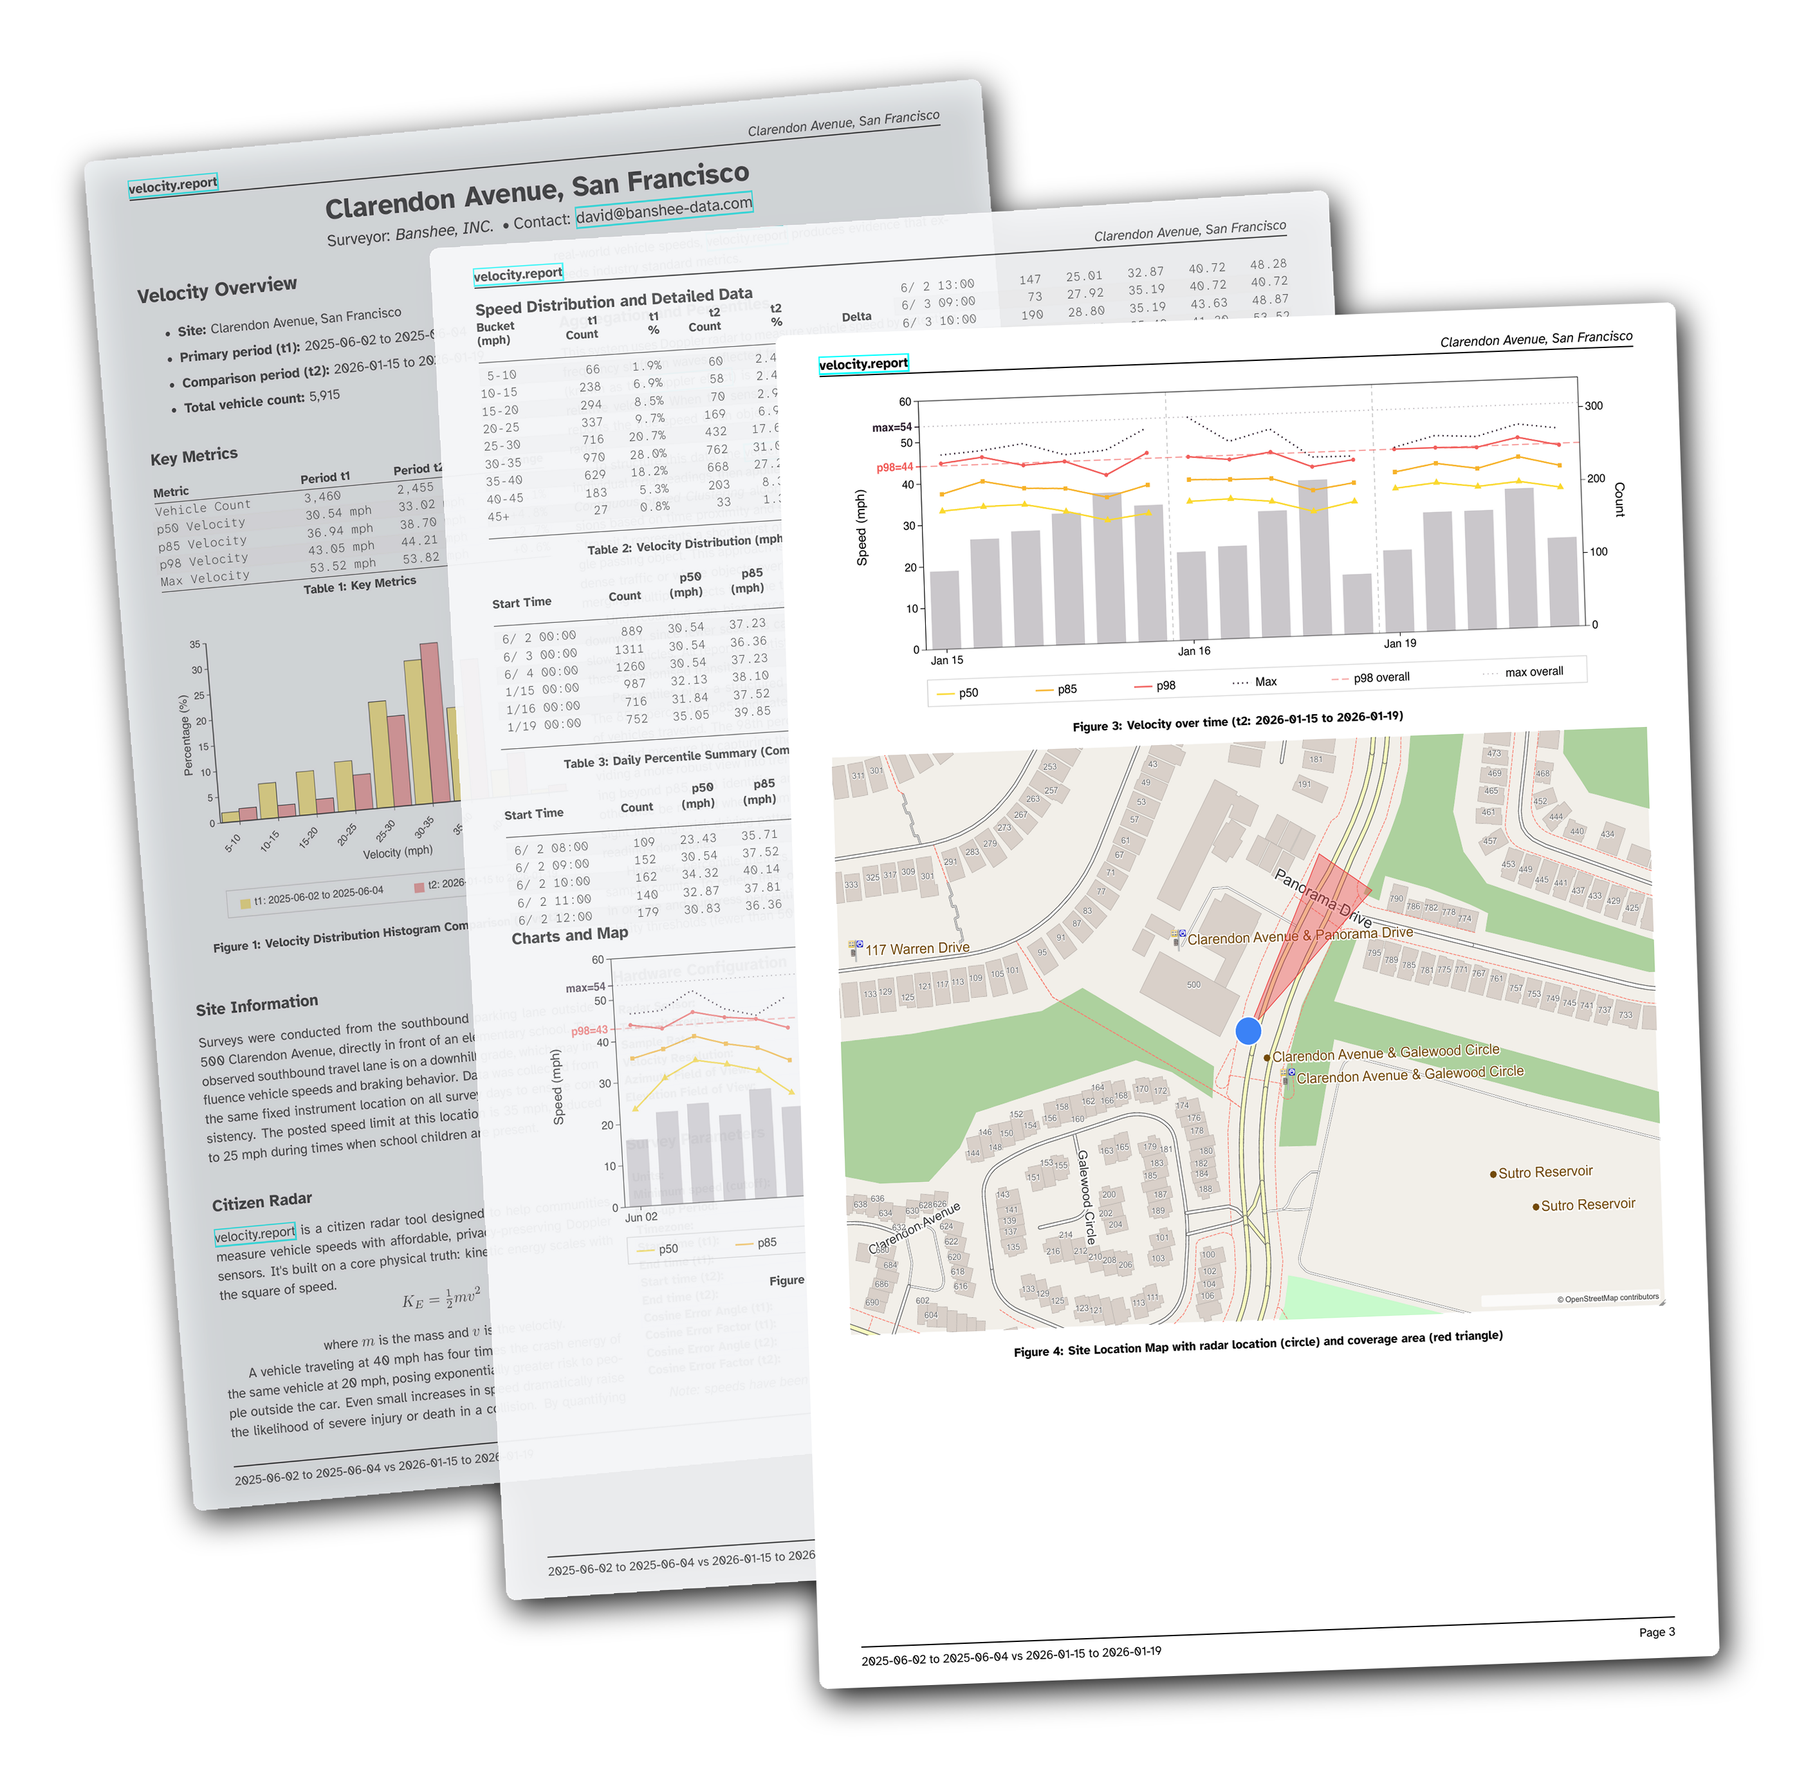
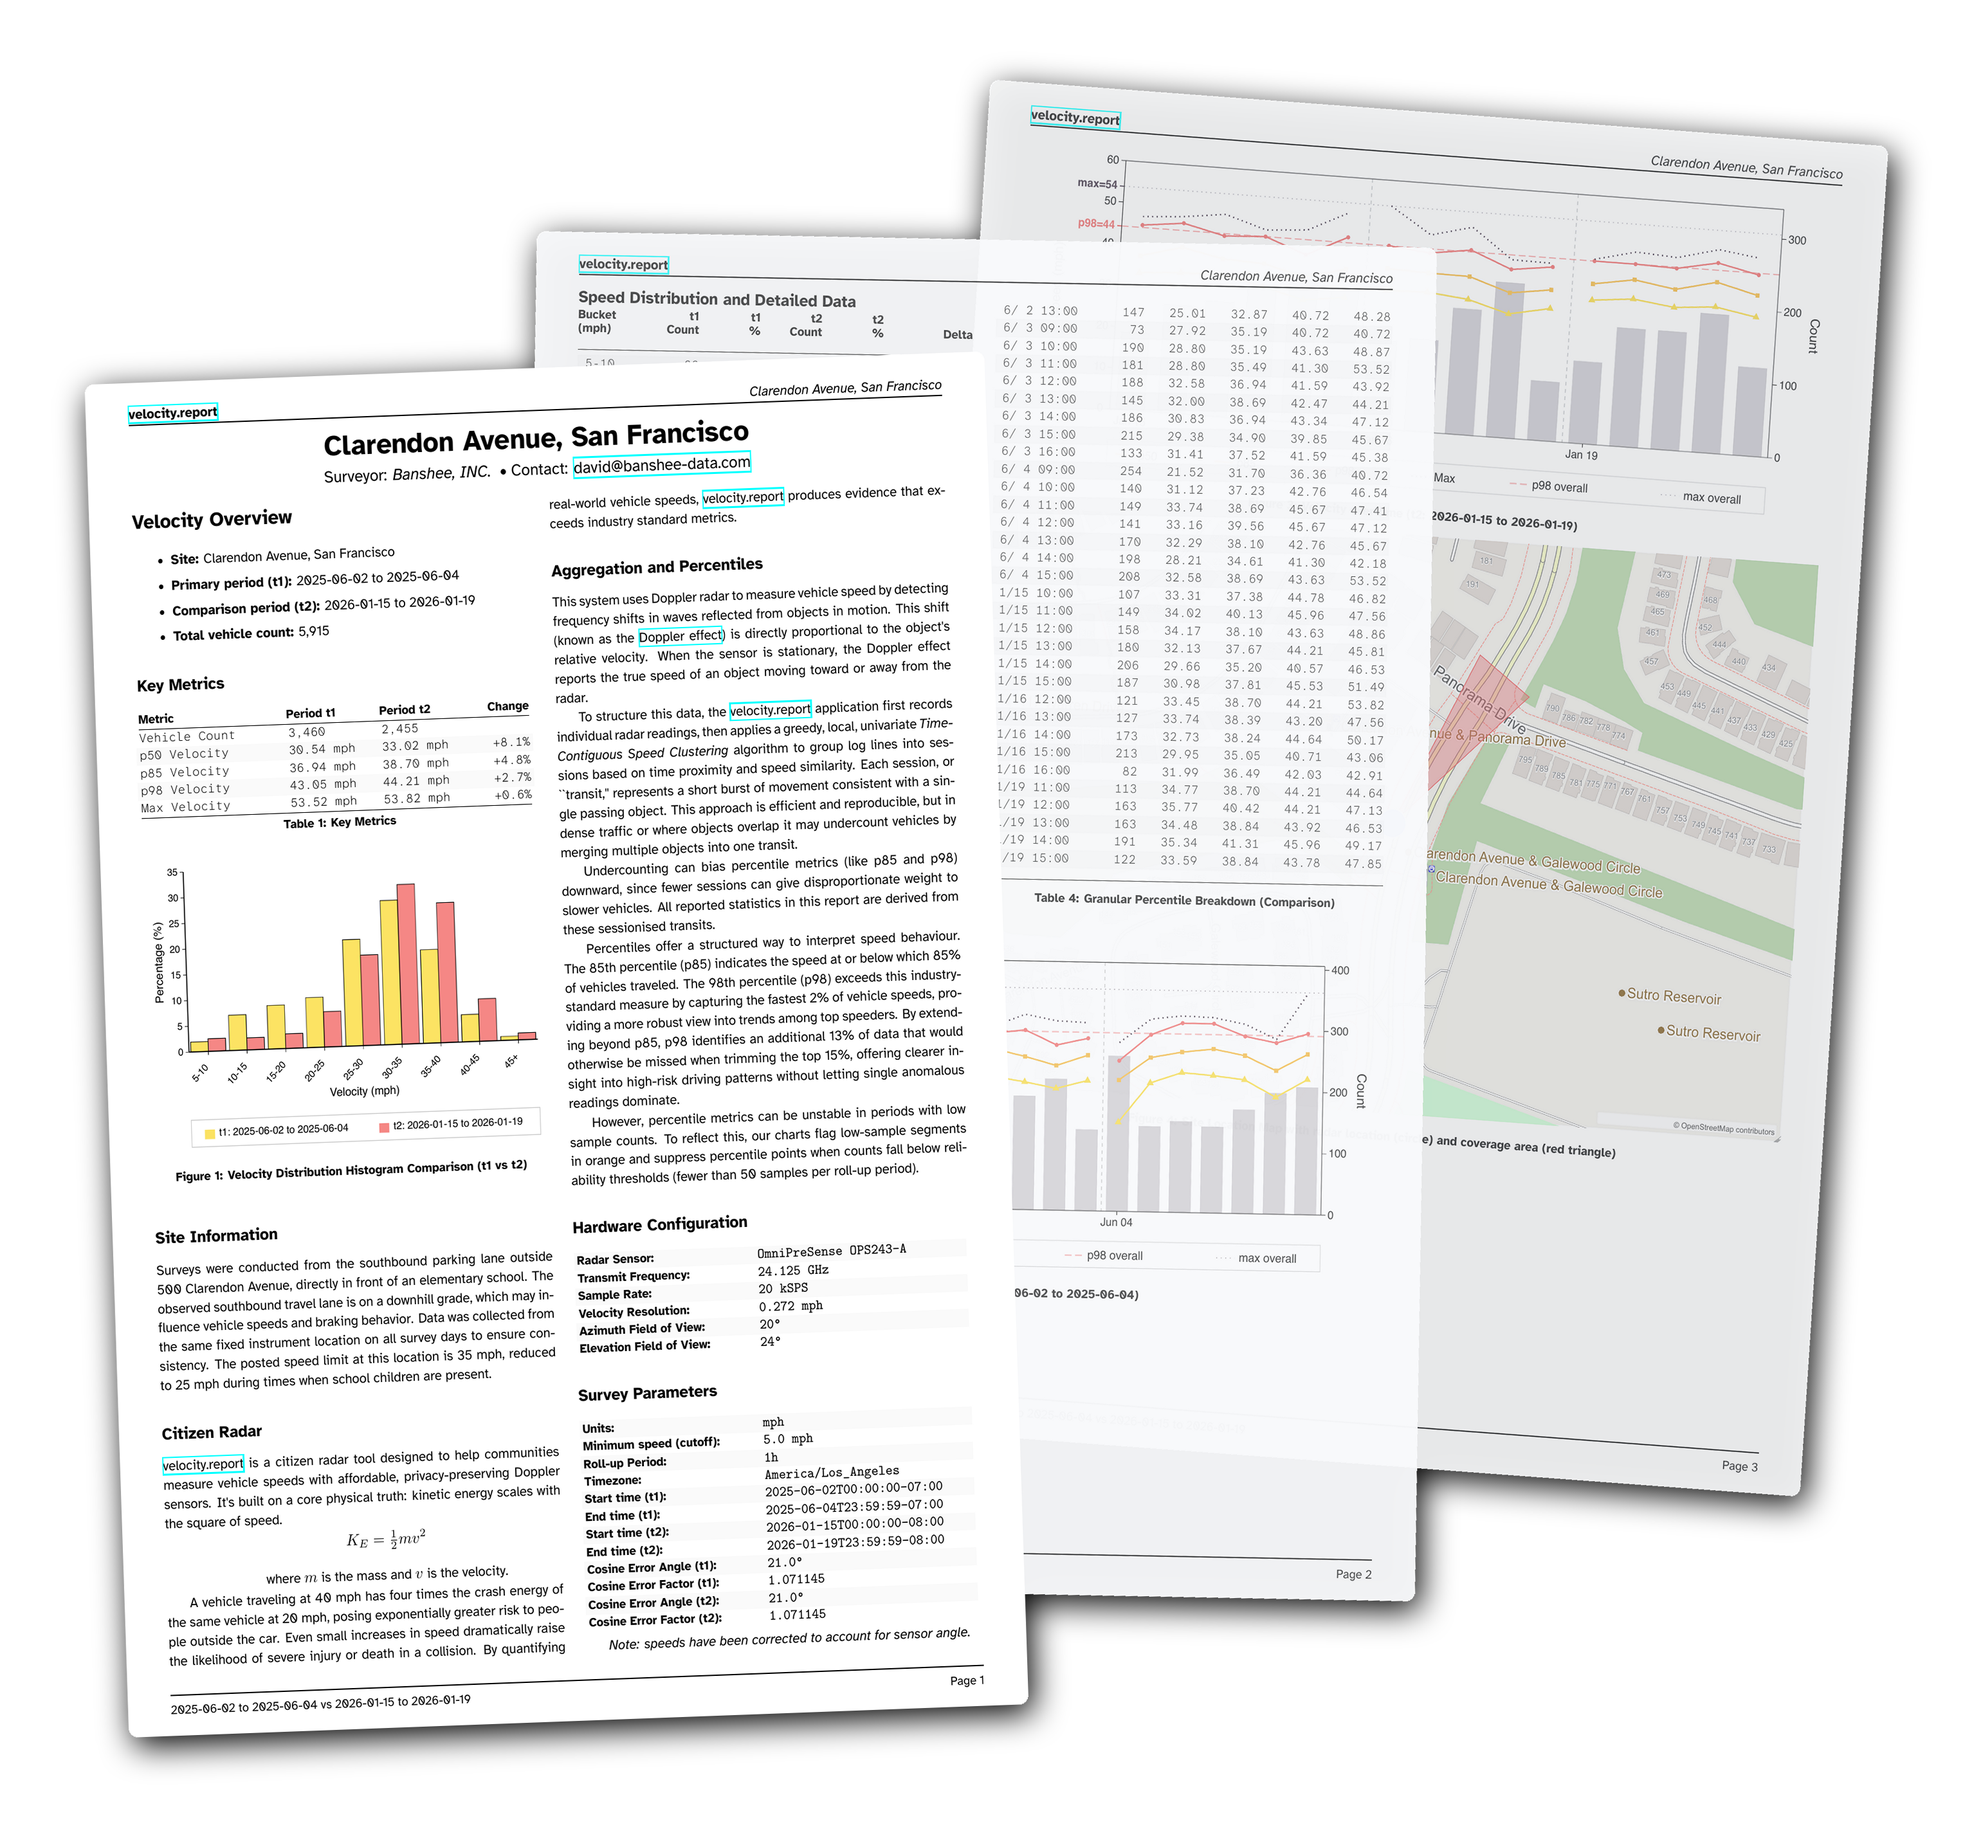
[py] adjust stack rendering parameters for improved visual alignment

diff --git a/tools/pdf-stack-render/render.py b/tools/pdf-stack-render/render.py
@@ -48,9 +48,14 @@ except ImportError as e:  # pragma: no cover
 # The CSS stack is widened here so the exported PNG reveals more of the
 # underlying report pages, especially the left column of page 1.
 DEFAULT_STACK = [
-    {"rotate_deg": 3.0, "offset": (0, 0), "opacity": 0.85, "tint": (215, 220, 228)},
-    {"rotate_deg": 1.5, "offset": (540, 175), "opacity": 0.95, "tint": (240, 243, 248)},
-    {"rotate_deg": 0.0, "offset": (1080, 350), "opacity": 1.0, "tint": None},
+    {"rotate_deg": -6.0, "offset": (0, 0), "opacity": 0.96, "tint": (215, 220, 228)},
+    {
+        "rotate_deg": -3,
+        "offset": (-700, 175),
+        "opacity": 0.98,
+        "tint": (240, 243, 248),
+    },
+    {"rotate_deg": 0.0, "offset": (-1400, 350), "opacity": 1.0, "tint": None},
 ]
 
 # Final 3D-feel: rotate the whole stack so it leans like the design.
@@ -225,8 +230,8 @@ def main() -> int:
     canvas_h = page_h + bbox_pad * 2
     canvas = Image.new("RGBA", (canvas_w, canvas_h), (0, 0, 0, 0))
 
-    # Composite pages back-to-front in PDF order so page 3 sits on top.
-    for page_img, entry in zip(rounded, stack_entries):
+    # Composite pages back-to-front so page 1 sits on the front sheet again.
+    for page_img, entry in zip(reversed(rounded), stack_entries):
         # Skip rounded corners on already-rounded pages (we did them above).
         tinted = apply_tint(page_img, entry["tint"], entry["opacity"])
         rotated = tinted.rotate(
